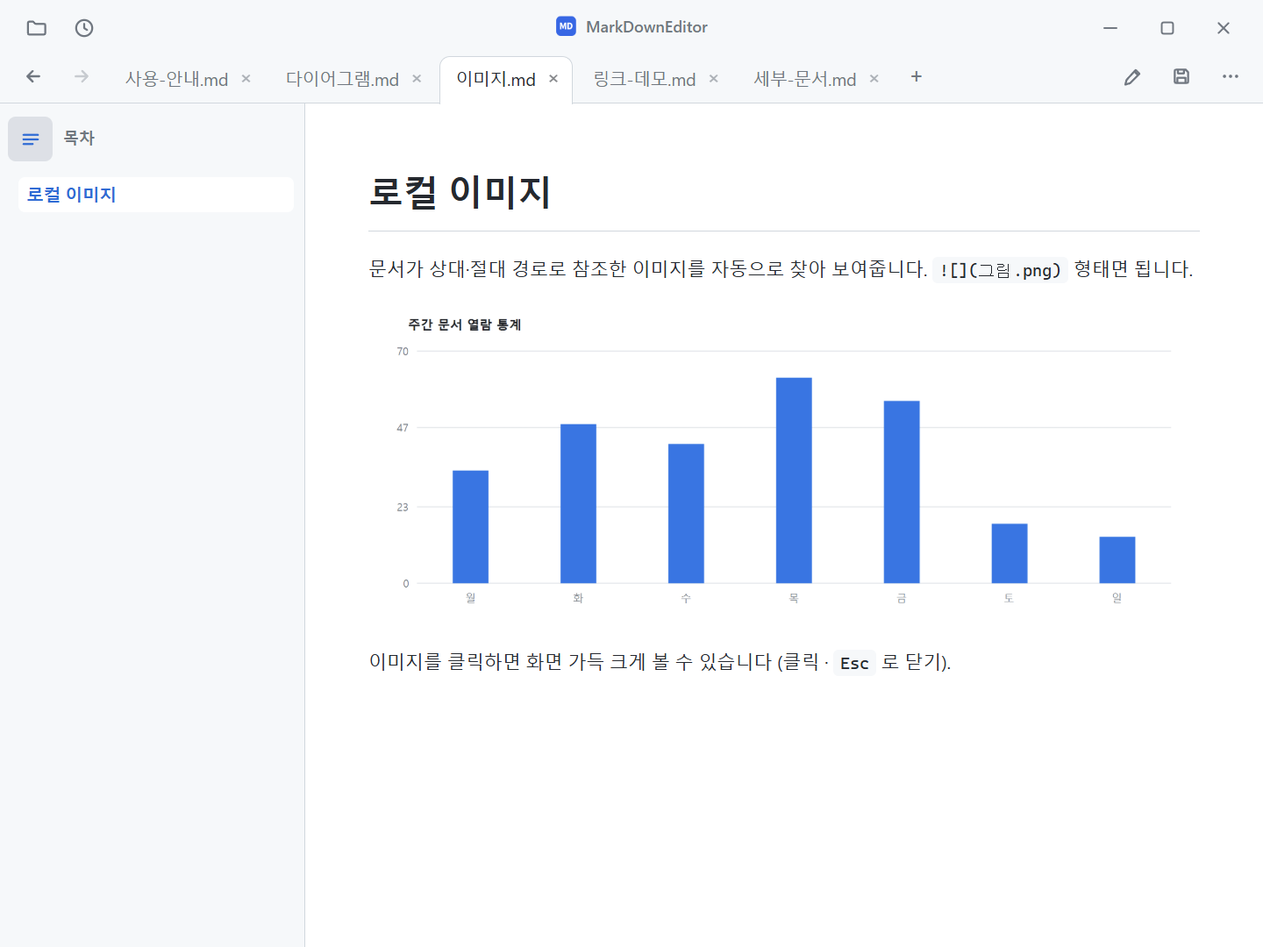
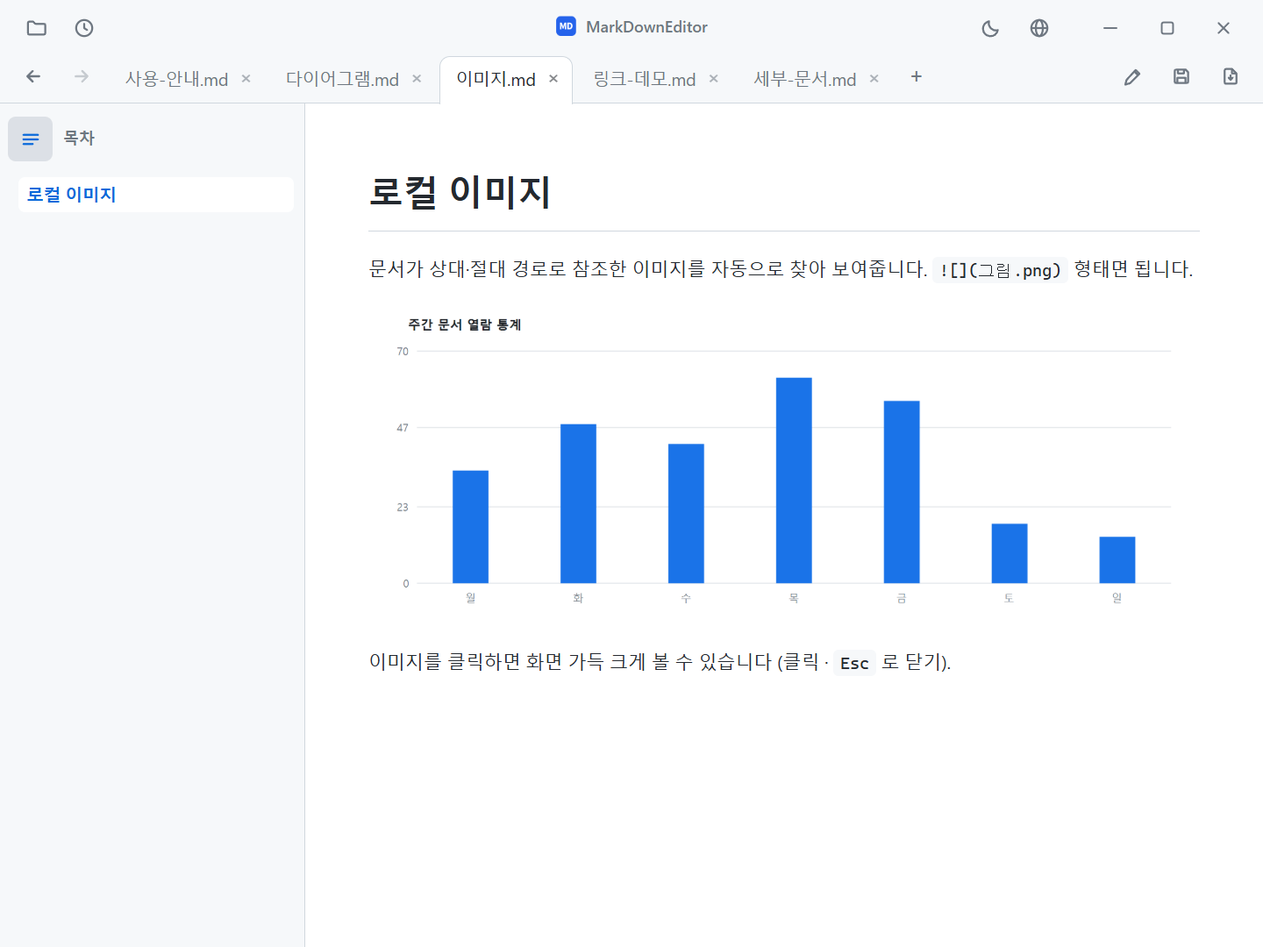
⋯ 메뉴 해체: 테마·언어는 타이틀바 버튼, PDF는 저장 옆 버튼으로
- 항목 4개뿐인 ⋯ 메뉴 제거 — 테마 토글(🌙/☀, 아이콘이 현재 테마 반대를 표시)과
  언어(🌐)는 타이틀바 우측, PDF 내보내기(📄)는 탭 줄 저장 옆으로
- 버전 정보(→GitHub)는 언어 메뉴 하단 줄로 이동
- 테마 버튼 툴팁은 로케일·테마 변경 시 "누르면 바뀔 테마"로 갱신
- i18n: 미사용 moreTitle 키 10개 언어에서 제거
- README(ko/en)·CHANGELOG 반영 + 스크린샷 9장 재촬영 (menu.png = 언어 메뉴)

diff --git a/src/web/i18n.js b/src/web/i18n.js
@@ -27,9 +27,7 @@ const I18N = {
     closeConfirm: (name) => `'${name}'의 변경사항이 저장되지 않았습니다. 닫을까요?`,
     extConfirm: (name) => `'${name}'이(가) 외부에서 변경되었습니다.\n다시 불러올까요? (저장하지 않은 내 변경사항은 사라집니다)`,
     extApplied: (name) => `외부 변경사항 반영됨: ${name}`,
-    fileMissing: (name) => `파일을 찾을 수 없습니다: ${name}`,
-    moreTitle: '메뉴',
-    menuPdf: '📄 PDF로 내보내기', menuThemeDark: '🌙 다크 테마', menuThemeLight: '☀ 라이트 테마',
+    fileMissing: (name) => `파일을 찾을 수 없습니다: ${name}`,    menuPdf: '📄 PDF로 내보내기', menuThemeDark: '🌙 다크 테마', menuThemeLight: '☀ 라이트 테마',
     menuLang: '🌐 언어', langAuto: '자동 (시스템 언어)',
     winMin: '최소화', winMax: '최대화', winRestore: '이전 크기로 복원', winClose: '닫기',
   },
@@ -58,9 +56,7 @@ const I18N = {
     closeConfirm: (name) => `'${name}' has unsaved changes. Close anyway?`,
     extConfirm: (name) => `'${name}' was changed outside this app.\nReload? (Your unsaved edits will be lost)`,
     extApplied: (name) => `Reloaded from disk: ${name}`,
-    fileMissing: (name) => `File not found: ${name}`,
-    moreTitle: 'Menu',
-    menuPdf: '📄 Export as PDF', menuThemeDark: '🌙 Dark theme', menuThemeLight: '☀ Light theme',
+    fileMissing: (name) => `File not found: ${name}`,    menuPdf: '📄 Export as PDF', menuThemeDark: '🌙 Dark theme', menuThemeLight: '☀ Light theme',
     menuLang: '🌐 Language', langAuto: 'Auto (system language)',
     winMin: 'Minimize', winMax: 'Maximize', winRestore: 'Restore', winClose: 'Close',
   },
@@ -89,9 +85,7 @@ const I18N = {
     closeConfirm: (name) => `「${name}」には未保存の変更があります。閉じますか？`,
     extConfirm: (name) => `「${name}」が外部で変更されました。\n再読み込みしますか？（未保存の変更は失われます）`,
     extApplied: (name) => `外部の変更を反映しました: ${name}`,
-    fileMissing: (name) => `ファイルが見つかりません: ${name}`,
-    moreTitle: 'メニュー',
-    menuPdf: '📄 PDFとしてエクスポート', menuThemeDark: '🌙 ダークテーマ', menuThemeLight: '☀ ライトテーマ',
+    fileMissing: (name) => `ファイルが見つかりません: ${name}`,    menuPdf: '📄 PDFとしてエクスポート', menuThemeDark: '🌙 ダークテーマ', menuThemeLight: '☀ ライトテーマ',
     menuLang: '🌐 言語', langAuto: '自動（システム言語）',
     winMin: '最小化', winMax: '最大化', winRestore: '元に戻す', winClose: '閉じる',
   },
@@ -120,9 +114,7 @@ const I18N = {
     closeConfirm: (name) => `“${name}”有未保存的更改。仍要关闭吗？`,
     extConfirm: (name) => `“${name}”已被外部程序修改。\n要重新加载吗？（未保存的更改将丢失）`,
     extApplied: (name) => `已从磁盘重新加载: ${name}`,
-    fileMissing: (name) => `找不到文件: ${name}`,
-    moreTitle: '菜单',
-    menuPdf: '📄 导出为 PDF', menuThemeDark: '🌙 深色主题', menuThemeLight: '☀ 浅色主题',
+    fileMissing: (name) => `找不到文件: ${name}`,    menuPdf: '📄 导出为 PDF', menuThemeDark: '🌙 深色主题', menuThemeLight: '☀ 浅色主题',
     menuLang: '🌐 语言', langAuto: '自动（系统语言）',
     winMin: '最小化', winMax: '最大化', winRestore: '还原', winClose: '关闭',
   },
@@ -151,9 +143,7 @@ const I18N = {
     closeConfirm: (name) => `「${name}」有未儲存的變更。仍要關閉嗎？`,
     extConfirm: (name) => `「${name}」已被外部程式修改。\n要重新載入嗎？（未儲存的變更將遺失）`,
     extApplied: (name) => `已從磁碟重新載入: ${name}`,
-    fileMissing: (name) => `找不到檔案: ${name}`,
-    moreTitle: '選單',
-    menuPdf: '📄 匯出為 PDF', menuThemeDark: '🌙 深色主題', menuThemeLight: '☀ 淺色主題',
+    fileMissing: (name) => `找不到檔案: ${name}`,    menuPdf: '📄 匯出為 PDF', menuThemeDark: '🌙 深色主題', menuThemeLight: '☀ 淺色主題',
     menuLang: '🌐 語言', langAuto: '自動（系統語言）',
     winMin: '最小化', winMax: '最大化', winRestore: '還原', winClose: '關閉',
   },
@@ -182,9 +172,7 @@ const I18N = {
     closeConfirm: (name) => `'${name}' tiene cambios sin guardar. ¿Cerrar de todos modos?`,
     extConfirm: (name) => `'${name}' fue modificado fuera de la aplicación.\n¿Recargar? (Se perderán tus cambios sin guardar)`,
     extApplied: (name) => `Recargado desde el disco: ${name}`,
-    fileMissing: (name) => `Archivo no encontrado: ${name}`,
-    moreTitle: 'Menú',
-    menuPdf: '📄 Exportar como PDF', menuThemeDark: '🌙 Tema oscuro', menuThemeLight: '☀ Tema claro',
+    fileMissing: (name) => `Archivo no encontrado: ${name}`,    menuPdf: '📄 Exportar como PDF', menuThemeDark: '🌙 Tema oscuro', menuThemeLight: '☀ Tema claro',
     menuLang: '🌐 Idioma', langAuto: 'Automático (idioma del sistema)',
     winMin: 'Minimizar', winMax: 'Maximizar', winRestore: 'Restaurar', winClose: 'Cerrar',
   },
@@ -213,9 +201,7 @@ const I18N = {
     closeConfirm: (name) => `'${name}' contient des modifications non enregistrées. Fermer quand même ?`,
     extConfirm: (name) => `'${name}' a été modifié en dehors de l'application.\nRecharger ? (Vos modifications non enregistrées seront perdues)`,
     extApplied: (name) => `Rechargé depuis le disque : ${name}`,
-    fileMissing: (name) => `Fichier introuvable : ${name}`,
-    moreTitle: 'Menu',
-    menuPdf: '📄 Exporter en PDF', menuThemeDark: '🌙 Thème sombre', menuThemeLight: '☀ Thème clair',
+    fileMissing: (name) => `Fichier introuvable : ${name}`,    menuPdf: '📄 Exporter en PDF', menuThemeDark: '🌙 Thème sombre', menuThemeLight: '☀ Thème clair',
     menuLang: '🌐 Langue', langAuto: 'Automatique (langue du système)',
     winMin: 'Réduire', winMax: 'Agrandir', winRestore: 'Restaurer', winClose: 'Fermer',
   },
@@ -244,9 +230,7 @@ const I18N = {
     closeConfirm: (name) => `'${name}' hat nicht gespeicherte Änderungen. Trotzdem schließen?`,
     extConfirm: (name) => `'${name}' wurde außerhalb der App geändert.\nNeu laden? (Ihre nicht gespeicherten Änderungen gehen verloren)`,
     extApplied: (name) => `Von der Festplatte neu geladen: ${name}`,
-    fileMissing: (name) => `Datei nicht gefunden: ${name}`,
-    moreTitle: 'Menü',
-    menuPdf: '📄 Als PDF exportieren', menuThemeDark: '🌙 Dunkles Design', menuThemeLight: '☀ Helles Design',
+    fileMissing: (name) => `Datei nicht gefunden: ${name}`,    menuPdf: '📄 Als PDF exportieren', menuThemeDark: '🌙 Dunkles Design', menuThemeLight: '☀ Helles Design',
     menuLang: '🌐 Sprache', langAuto: 'Automatisch (Systemsprache)',
     winMin: 'Minimieren', winMax: 'Maximieren', winRestore: 'Wiederherstellen', winClose: 'Schließen',
   },
@@ -275,9 +259,7 @@ const I18N = {
     closeConfirm: (name) => `В «${name}» есть несохранённые изменения. Всё равно закрыть?`,
     extConfirm: (name) => `«${name}» был изменён вне приложения.\nПерезагрузить? (Несохранённые изменения будут потеряны)`,
     extApplied: (name) => `Перезагружено с диска: ${name}`,
-    fileMissing: (name) => `Файл не найден: ${name}`,
-    moreTitle: 'Меню',
-    menuPdf: '📄 Экспорт в PDF', menuThemeDark: '🌙 Тёмная тема', menuThemeLight: '☀ Светлая тема',
+    fileMissing: (name) => `Файл не найден: ${name}`,    menuPdf: '📄 Экспорт в PDF', menuThemeDark: '🌙 Тёмная тема', menuThemeLight: '☀ Светлая тема',
     menuLang: '🌐 Язык', langAuto: 'Автоматически (язык системы)',
     winMin: 'Свернуть', winMax: 'Развернуть', winRestore: 'Восстановить', winClose: 'Закрыть',
   },
@@ -306,9 +288,7 @@ const I18N = {
     closeConfirm: (name) => `'${name}' tem alterações não salvas. Fechar mesmo assim?`,
     extConfirm: (name) => `'${name}' foi modificado fora do aplicativo.\nRecarregar? (Suas alterações não salvas serão perdidas)`,
     extApplied: (name) => `Recarregado do disco: ${name}`,
-    fileMissing: (name) => `Arquivo não encontrado: ${name}`,
-    moreTitle: 'Menu',
-    menuPdf: '📄 Exportar como PDF', menuThemeDark: '🌙 Tema escuro', menuThemeLight: '☀ Tema claro',
+    fileMissing: (name) => `Arquivo não encontrado: ${name}`,    menuPdf: '📄 Exportar como PDF', menuThemeDark: '🌙 Tema escuro', menuThemeLight: '☀ Tema claro',
     menuLang: '🌐 Idioma', langAuto: 'Automático (idioma do sistema)',
     winMin: 'Minimizar', winMax: 'Maximizar', winRestore: 'Restaurar', winClose: 'Fechar',
   },

diff --git a/src/web/app.js b/src/web/app.js
@@ -17,7 +17,9 @@ const els = {
   tocRail: document.getElementById('tocRail'),
   lightbox: document.getElementById('lightbox'),
   lightboxImg: document.getElementById('lightboxImg'),
-  moreBtn: document.getElementById('moreBtn'),
+  pdfBtn: document.getElementById('pdfBtn'),
+  themeBtn: document.getElementById('themeBtn'),
+  langBtn: document.getElementById('langBtn'),
   toast: document.getElementById('toast'),
   ctxmenu: document.getElementById('ctxmenu'),
   toggleBtn: document.getElementById('toggleBtn'),
@@ -45,7 +47,7 @@ const els = {
 // 시작은 브라우저 언어로 추정하고, C#이 ready 후 확정값(언어 설정 > MDE_LANG > OS 언어)을 보내면 재적용.
 let langCurrent = resolveLang(navigator.language);   // 현재 적용된 언어 코드
 let L = I18N[langCurrent] || I18N.en;
-let langMode = 'auto';     // 'auto' 또는 언어 코드 — ⋯ 메뉴의 체크 표시용
+let langMode = 'auto';     // 'auto' 또는 언어 코드 — 🌐 언어 메뉴의 체크 표시용
 let winMaximized = false;  // 창 최대화 상태 (커스텀 타이틀바 — applyLocale의 복원/최대화 툴팁에도 사용)
 
 // 접근성: 시스템의 "동작 줄이기" 설정 시 부드러운 스크롤 대신 즉시 이동
@@ -65,7 +67,9 @@ function applyLocale(lang) {
   setTitle(els.openBtn, L.openTitle);
   setTitle(els.recentBtn, L.recentTitle);
   setTitle(els.saveBtn, L.saveTitle);
-  setTitle(els.moreBtn, L.moreTitle);
+  setTitle(els.pdfBtn, L.menuPdf);
+  setTitle(els.langBtn, `${L.menuLang} — ${langCurrent.toUpperCase()}`);
+  updateThemeTitle();
   setTitle(els.backBtn, L.backTitle);
   setTitle(els.fwdBtn, L.fwdTitle);
   setTitle(els.tocBtn, L.tocBtnTitle);
@@ -186,9 +190,10 @@ async function applyPrintTheme(light) {
 }
 
 // ---- 테마 (다크/라이트) ----
-function applyTheme(theme) {           // 'dark' | 'light'  (전환은 ⋯ 메뉴에서)
+function applyTheme(theme) {           // 'dark' | 'light'  (전환은 타이틀바 🌙/☀ 버튼)
   document.documentElement.setAttribute('data-theme', theme);
   try { localStorage.setItem('theme', theme); } catch (_) {}
+  updateThemeTitle();                  // 버튼 툴팁을 "누르면 바뀔 테마"로 갱신
   // mermaid는 테마가 SVG에 박제되므로 재초기화 후 미리보기를 다시 그림
   if (typeof mermaid !== 'undefined') {
     mermaidInit(theme);
@@ -1032,26 +1037,17 @@ function showRecentMenu() {
 }
 menuButton(els.recentBtn, showRecentMenu);
 
-// ---- ⋯ 메뉴 (PDF 내보내기 · 테마 · 언어 · 버전) ----
-function showMoreMenu() {
-  showMenuAt([
-    { label: L.menuPdf, act: exportPdf },
-    {
-      label: currentTheme() === 'dark' ? L.menuThemeLight : L.menuThemeDark,
-      act: () => applyTheme(currentTheme() === 'dark' ? 'light' : 'dark'),
-    },
-    // 현재 언어를 코드(대문자)로 함께 표시 — 클릭하면 언어 목록으로 전환
-    { label: `${L.menuLang} — ${langCurrent.toUpperCase()}`, act: showLangMenu },
-    'sep',
-    {
-      label: `MarkDownEditor v${appVersion || '?'}`,
-      act: () => { if (host) host.postMessage({ cmd: 'openExternal', url: 'https://github.com/jjw1270/MarkdownEditor' }); },
-    },
-  ], els.moreBtn, 'right');
-}
-menuButton(els.moreBtn, showMoreMenu);
+// ---- PDF·테마 버튼 (구 ⋯ 메뉴 해체 — 언어·버전만 🌐 메뉴에 남음) ----
+els.pdfBtn.addEventListener('click', exportPdf);
+els.themeBtn.addEventListener('click', () => applyTheme(currentTheme() === 'dark' ? 'light' : 'dark'));
 
-// 언어 하위 메뉴 — 선택은 C#(lang.txt)이 저장하고, 확정값을 app 메시지로 돌려준다
+// 테마 버튼 툴팁은 "누르면 바뀔 테마"를 안내 — 로케일·테마가 바뀔 때마다 갱신
+function updateThemeTitle() {
+  if (!L || !els.themeBtn) return;
+  setTitle(els.themeBtn, currentTheme() === 'dark' ? L.menuThemeLight : L.menuThemeDark);
+}
+
+// 언어 메뉴 — 선택은 C#(lang.txt)이 저장하고, 확정값을 app 메시지로 돌려준다
 function showLangMenu() {
   const mark = (on) => (on ? '✓ ' : '  ');   // 숫자 폭 공백으로 정렬
   const items = [
@@ -1061,8 +1057,14 @@ function showLangMenu() {
   for (const code of Object.keys(LANG_NAMES)) {
     items.push({ label: mark(langMode === code) + LANG_NAMES[code], act: () => setLang(code) });
   }
-  showMenuAt(items, els.moreBtn, 'right');
+  // 버전 정보 (구 ⋯ 메뉴에서 이동) — 클릭하면 GitHub 저장소로
+  items.push('sep', {
+    label: `MarkDownEditor v${appVersion || '?'}`,
+    act: () => { if (host) host.postMessage({ cmd: 'openExternal', url: 'https://github.com/jjw1270/MarkdownEditor' }); },
+  });
+  showMenuAt(items, els.langBtn, 'right');
 }
+menuButton(els.langBtn, showLangMenu);
 function setLang(mode) {
   if (host) host.postMessage({ cmd: 'lang', value: mode });
 }

diff --git a/src/web/index.html b/src/web/index.html
@@ -31,6 +31,27 @@
     <!-- 남은 빈 공간 전체가 창 드래그 영역 -->
     <div class="spacer"></div>
 
+    <!-- 앱 설정(테마·언어)은 타이틀바 우측 — 창 버튼과는 여백으로 구분 -->
+    <button id="themeBtn" title="다크 테마">
+      <svg class="ic-moon" width="16" height="16" viewBox="0 0 16 16" fill="none" aria-hidden="true">
+        <path d="M13.1 9.6a5.5 5.5 0 0 1-6.7-6.7 5.7 5.7 0 1 0 6.7 6.7z"
+              stroke="currentColor" stroke-width="1.5" stroke-linejoin="round"/>
+      </svg>
+      <svg class="ic-sun" width="16" height="16" viewBox="0 0 16 16" fill="none" aria-hidden="true">
+        <circle cx="8" cy="8" r="2.7" stroke="currentColor" stroke-width="1.5"/>
+        <path d="M8 1.9v1.6M8 12.5v1.6M1.9 8h1.6M12.5 8h1.6M3.7 3.7l1.1 1.1M11.2 11.2l1.1 1.1M12.3 3.7l-1.1 1.1M4.8 11.2l-1.1 1.1"
+              stroke="currentColor" stroke-width="1.5" stroke-linecap="round"/>
+      </svg>
+    </button>
+    <!-- 언어 선택 메뉴 (하단에 버전 정보 포함) -->
+    <button id="langBtn" title="언어">
+      <svg width="16" height="16" viewBox="0 0 16 16" fill="none" aria-hidden="true">
+        <circle cx="8" cy="8" r="6.1" stroke="currentColor" stroke-width="1.5"/>
+        <ellipse cx="8" cy="8" rx="2.7" ry="6.1" stroke="currentColor" stroke-width="1.5"/>
+        <path d="M2.2 8h11.6" stroke="currentColor" stroke-width="1.5"/>
+      </svg>
+    </button>
+
     <!-- 창 제어 (커스텀 타이틀바) — C#이 네이티브로 처리 -->
     <button id="minBtn" class="winbtn" title="최소화">
       <svg width="16" height="16" viewBox="0 0 16 16" fill="none" aria-hidden="true">
@@ -88,12 +109,13 @@
               stroke="currentColor" stroke-width="1.5" stroke-linejoin="round"/>
       </svg>
     </button>
-    <!-- PDF 내보내기·테마 전환·언어 설정·버전 정보는 ⋯ 메뉴로 -->
-    <button id="moreBtn" title="메뉴">
-      <svg width="16" height="16" viewBox="0 0 16 16" aria-hidden="true">
-        <circle cx="3.4" cy="8" r="1.2" fill="currentColor"/>
-        <circle cx="8" cy="8" r="1.2" fill="currentColor"/>
-        <circle cx="12.6" cy="8" r="1.2" fill="currentColor"/>
+    <button id="pdfBtn" title="PDF로 내보내기">
+      <svg width="16" height="16" viewBox="0 0 16 16" fill="none" aria-hidden="true">
+        <path d="M9.1 2.4H4.5c-.55 0-1 .45-1 1v9.2c0 .55.45 1 1 1h7c.55 0 1-.45 1-1V5.8z"
+              stroke="currentColor" stroke-width="1.5" stroke-linejoin="round"/>
+        <path d="M9.1 2.4v3.4h3.4" stroke="currentColor" stroke-width="1.5" stroke-linejoin="round"/>
+        <path d="M8 7.3v3.2M6.5 9.1 8 10.7l1.5-1.6" stroke="currentColor" stroke-width="1.5"
+              stroke-linecap="round" stroke-linejoin="round"/>
       </svg>
     </button>
   </div>

diff --git a/src/web/style.css b/src/web/style.css
@@ -158,9 +158,15 @@ body {
 #toggleBtn.active .ic-edit { display: none; }
 #toggleBtn.active .ic-preview { display: block; }
 
-/* 창 제어 버튼 (커스텀 타이틀바) — 닫기는 Windows 관례대로 호버 시 빨간 배경 */
+/* 테마 토글: 현재 테마의 "반대" 아이콘 하나만 표시 (라이트→달, 다크→해) */
+#themeBtn .ic-sun { display: none; }
+[data-theme="dark"] #themeBtn .ic-moon { display: none; }
+[data-theme="dark"] #themeBtn .ic-sun { display: block; }
+
+/* 창 제어 버튼 (커스텀 타이틀바) — 닫기는 Windows 관례대로 호버 시 빨간 배경.
+   설정 버튼(테마·언어) 무리와는 여백을 넓혀 오클릭 방지 */
 #bar .winbtn { width: 40px; }
-#bar #minBtn { margin-left: 8px; }
+#bar #minBtn { margin-left: 14px; }
 #bar .winbtn-close:hover { background: #c42b1c; color: #fff; }
 #bar .winbtn-close:active { background: #b3271a; color: #fff; }
 /* 최대화↔복원 아이콘 전환 */

diff --git a/README.md b/README.md
@@ -35,11 +35,11 @@
 - **클립보드 이미지 붙여넣기** — 편집 중 `Ctrl+V`로 스크린샷을 붙여넣으면 문서 옆 `images/` 폴더에 저장되고 링크가 자동 삽입됩니다.
 - **자동 백업 & 복구** — 저장 안 된 변경사항을 30초마다 스냅샷해 두었다가, 비정상 종료 후 재실행하면 복구를 제안합니다.
 - **세션 복원 & 최근 문서** — 파일 없이 실행하면 마지막에 열려 있던 탭들을 다시 열고, `🕘` 버튼으로 최근 문서를 바로 열 수 있습니다.
-- **UI 언어 10종** — 한국어·English·日本語·简体中文·繁體中文·Español·Français·Deutsch·Русский·Português. 기본은 OS 언어를 따르고, `⋯` 메뉴 → 언어에서 바로 바꿀 수 있습니다.
+- **UI 언어 10종** — 한국어·English·日本語·简体中文·繁體中文·Español·Français·Deutsch·Русский·Português. 기본은 OS 언어를 따르고, 타이틀바 `🌐` 버튼에서 바로 바꿀 수 있습니다.
 - **줌 기억** — `Ctrl+휠`로 조절한 배율을 다음 실행에도 유지합니다.
 - **위치 기억** — 탭을 전환해도 미리보기 스크롤과 **편집 커서 위치까지** 그대로 유지됩니다.
 - **한글 인코딩 자동 감지** — UTF-8은 물론 BOM 없는 CP949(EUC-KR) 문서도 깨짐 없이 열립니다.
-- **다크 / 라이트 테마** — `⋯` 메뉴에서 전환, 한 번 고르면 다음 실행에도 기억합니다. Windows **제목표시줄도 함께** 전환됩니다.
+- **다크 / 라이트 테마** — 타이틀바 `🌙`/`☀` 버튼으로 전환, 한 번 고르면 다음 실행에도 기억합니다. Windows **제목표시줄도 함께** 전환됩니다.
 - **편집 ↔ 미리보기 즉시 전환** — `Ctrl+E` 한 번.
 - **찾기 / 바꾸기** — `Ctrl+F` 찾기는 **미리보기·편집 모두** 지원(미리보기는 전체 매치 하이라이트), `Ctrl+H` 바꾸기는 편집 모드에서. 대소문자 구분과 **모두 바꾸기**를 지원합니다.
 - **이미지 클릭 확대** — 미리보기의 이미지를 클릭하면 화면 가득 크게 보여줍니다(클릭·`Esc`로 닫기).
@@ -51,17 +51,17 @@
 
 ### 미리보기 (라이트 / 다크)
 
-GitHub 스타일로 제목·표·코드·인용문을 렌더링합니다. 테마는 `⋯` 메뉴에서 전환합니다.
+GitHub 스타일로 제목·표·코드·인용문을 렌더링합니다. 테마는 타이틀바 `🌙`/`☀` 버튼으로 전환합니다.
 
 | 라이트 | 다크 |
 |:---:|:---:|
 | ![라이트 테마](docs/images/preview-light.png) | ![다크 테마](docs/images/preview-dark.png) |
 
-### ⋯ 메뉴 — PDF · 테마 · 언어
+### 언어 설정 — 🌐 메뉴
 
-탭 줄 우측 `⋯` 버튼에 PDF 내보내기, 다크/라이트 전환, **UI 언어 선택(10개 언어)**, 버전 정보가 모여 있습니다. 창은 메모장처럼 **탭·도구가 타이틀바에 통합된 컴팩트 UI**입니다.
+타이틀바 우측에 테마(`🌙`/`☀`)·언어(`🌐`) 버튼이 있습니다. `🌐` 메뉴에서 **UI 언어(10개 언어)**를 고르고 버전 정보도 확인할 수 있습니다. 창은 메모장처럼 **탭·도구가 타이틀바에 통합된 컴팩트 UI**입니다.
 
-![⋯ 메뉴](docs/images/menu.png)
+![언어 메뉴](docs/images/menu.png)
 
 ### 편집 모드
 
@@ -133,10 +133,10 @@ GitHub 스타일로 제목·표·코드·인용문을 렌더링합니다. 테마
 | 편집 / 미리보기 전환 | `✏ 편집` 버튼 · `Ctrl+E` |
 | 찾기 / 바꾸기 (편집 모드) | `Ctrl+F` 찾기 · `Ctrl+H` 바꾸기 |
 | 저장 | `💾 저장` · `Ctrl+S` (새 문서는 저장 위치를 묻습니다) |
-| PDF로 내보내기 | `⋯` 메뉴 → PDF로 내보내기 · `Ctrl+P` (미리보기 내용 그대로, 라이트 테마로 출력) |
+| PDF로 내보내기 | 저장 옆 `📄` 버튼 · `Ctrl+P` (미리보기 내용 그대로, 라이트 테마로 출력) |
 | 이미지 붙여넣기 | 편집 중 `Ctrl+V` — 문서 옆 `images/` 폴더에 저장 + 링크 삽입 (저장된 문서에서만) |
-| 다크/라이트 전환 | `⋯` 메뉴 → 테마 |
-| UI 언어 변경 | `⋯` 메뉴 → 언어 (기본: 시스템 언어 자동, 현재 언어가 메뉴에 표시) |
+| 다크/라이트 전환 | 타이틀바 `🌙`/`☀` 버튼 |
+| UI 언어 변경 | 타이틀바 `🌐` 버튼 (기본: 시스템 언어 자동, 현재 언어가 툴팁·메뉴에 표시) |
 | 창 이동 / 최대화 | 타이틀바 빈 공간 드래그 / 더블클릭 |
 | 연결된 문서 열기 | 미리보기에서 링크 클릭 (`.md`는 탭 · 웹/HTML은 브라우저 · 폴더는 탐색기 · 문서 파일은 연결 프로그램) |
 

diff --git a/README.en.md b/README.en.md
@@ -24,17 +24,17 @@ Double-click a `.md` file and it just opens — no installation required.
 - **Table of contents sidebar** — with scroll-spy highlighting of the current section.
 - **Edit ↔ Preview** — `Ctrl+E`, with scroll position synchronized between the two modes.
 - **Find / Replace** — `Ctrl+F` works in both preview (full-match highlighting) and edit mode; `Ctrl+H` replaces in edit mode.
-- **PDF export** — from the `⋯` menu or `Ctrl+P`, always in light theme.
+- **PDF export** — the `📄` button next to Save, or `Ctrl+P`, always in light theme.
 - **Paste images from clipboard** — saved to an `images/` folder next to the document, link inserted automatically.
 - **Auto reload on external change** — edits from other programs (IDE, editor) refresh the open tab; your unsaved edits are never silently overwritten.
 - **Auto backup & crash recovery** — unsaved changes are snapshotted every 30 s and offered for recovery on next start.
 - **Session restore** — when launched without a file, the previously open tabs are reopened. Recent files are available from the 🕘 button.
 - **Korean encoding detection** — BOM-less CP949/EUC-KR files open correctly alongside UTF-8.
-- **Dark / Light theme** — toggled from the `⋯` menu, remembered across runs, including the Windows title bar.
-- **Localized UI — 10 languages** — 한국어, English, 日本語, 简体中文, 繁體中文, Español, Français, Deutsch, Русский, Português. Follows the OS language by default; switch anytime from the `⋯` menu → Language.
+- **Dark / Light theme** — toggled with the title-bar `🌙`/`☀` button, remembered across runs, including the Windows title bar.
+- **Localized UI — 10 languages** — 한국어, English, 日本語, 简体中文, 繁體中文, Español, Français, Deutsch, Русский, Português. Follows the OS language by default; switch anytime from the title-bar `🌐` button.
 - **Notepad-style compact chrome** — tabs and tools live in a custom title bar (drag the blank area to move, double-click to maximize).
 
-![⋯ menu](docs/images/menu.png)
+![Language menu](docs/images/menu.png)
 
 ## Getting started
 

diff --git a/CHANGELOG.md b/CHANGELOG.md
@@ -12,8 +12,8 @@
 - PDF 내보내기 · 클립보드 이미지 붙여넣기 · 로컬 이미지 인라인
 - 외부 변경 자동 반영 · 자동 백업/복구 · 세션 복원 · 최근 문서
 - 한글 인코딩(CP949) 자동 감지
-- **UI 10개 언어** (한국어·English·日本語·简体中文·繁體中文·Español·Français·Deutsch·Русский·Português) — 기본은 OS 언어, `⋯` 메뉴에서 변경 (`MDE_LANG` 오버라이드 지원)
-- `⋯` 메뉴 — PDF 내보내기 · 테마 전환 · 언어 설정(현재 언어 표시) · 버전 정보
+- **UI 10개 언어** (한국어·English·日本語·简体中文·繁體中文·Español·Français·Deutsch·Русский·Português) — 기본은 OS 언어, 타이틀바 `🌐` 메뉴에서 변경 (`MDE_LANG` 오버라이드 지원)
+- 타이틀바 우측 앱 설정 버튼 — 테마 전환(`🌙`/`☀`) · 언어 메뉴(`🌐`, 현재 언어·버전 정보 표시), PDF 내보내기(`📄`)는 저장 옆
 - **커스텀 타이틀바** — OS 제목표시줄을 없애고 메모장식 2줄 헤더(타이틀바 + 탭 줄)로 통합.
   아이콘·타이틀·내비게이션은 좌측, 창 버튼은 우측, 문서 액션은 탭 줄 우측.
   플랫 모노크롬 아이콘 버튼, 본문과 이어지는 탭 모양, 드래그/더블클릭/가장자리 리사이즈 지원
